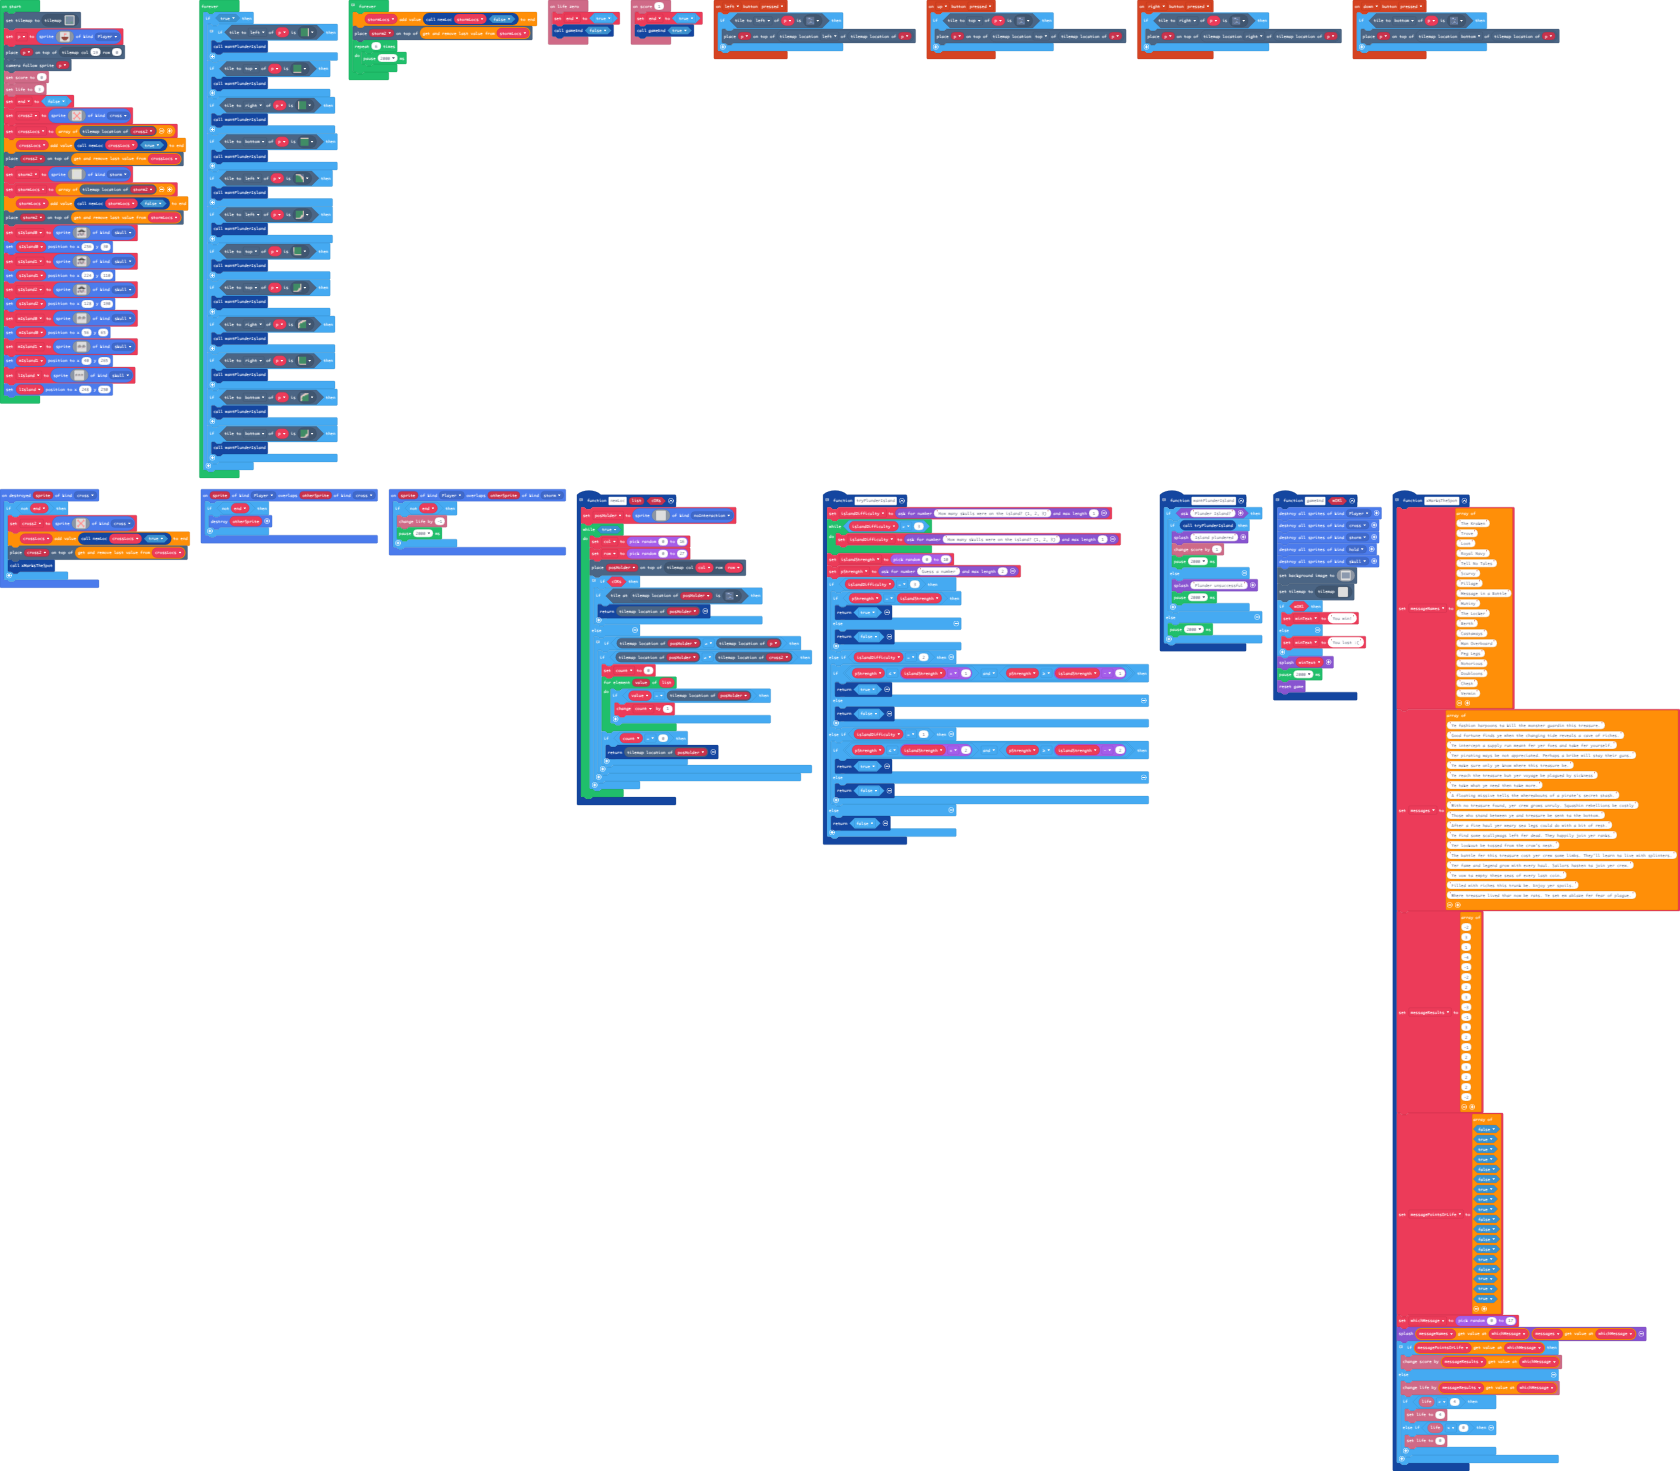
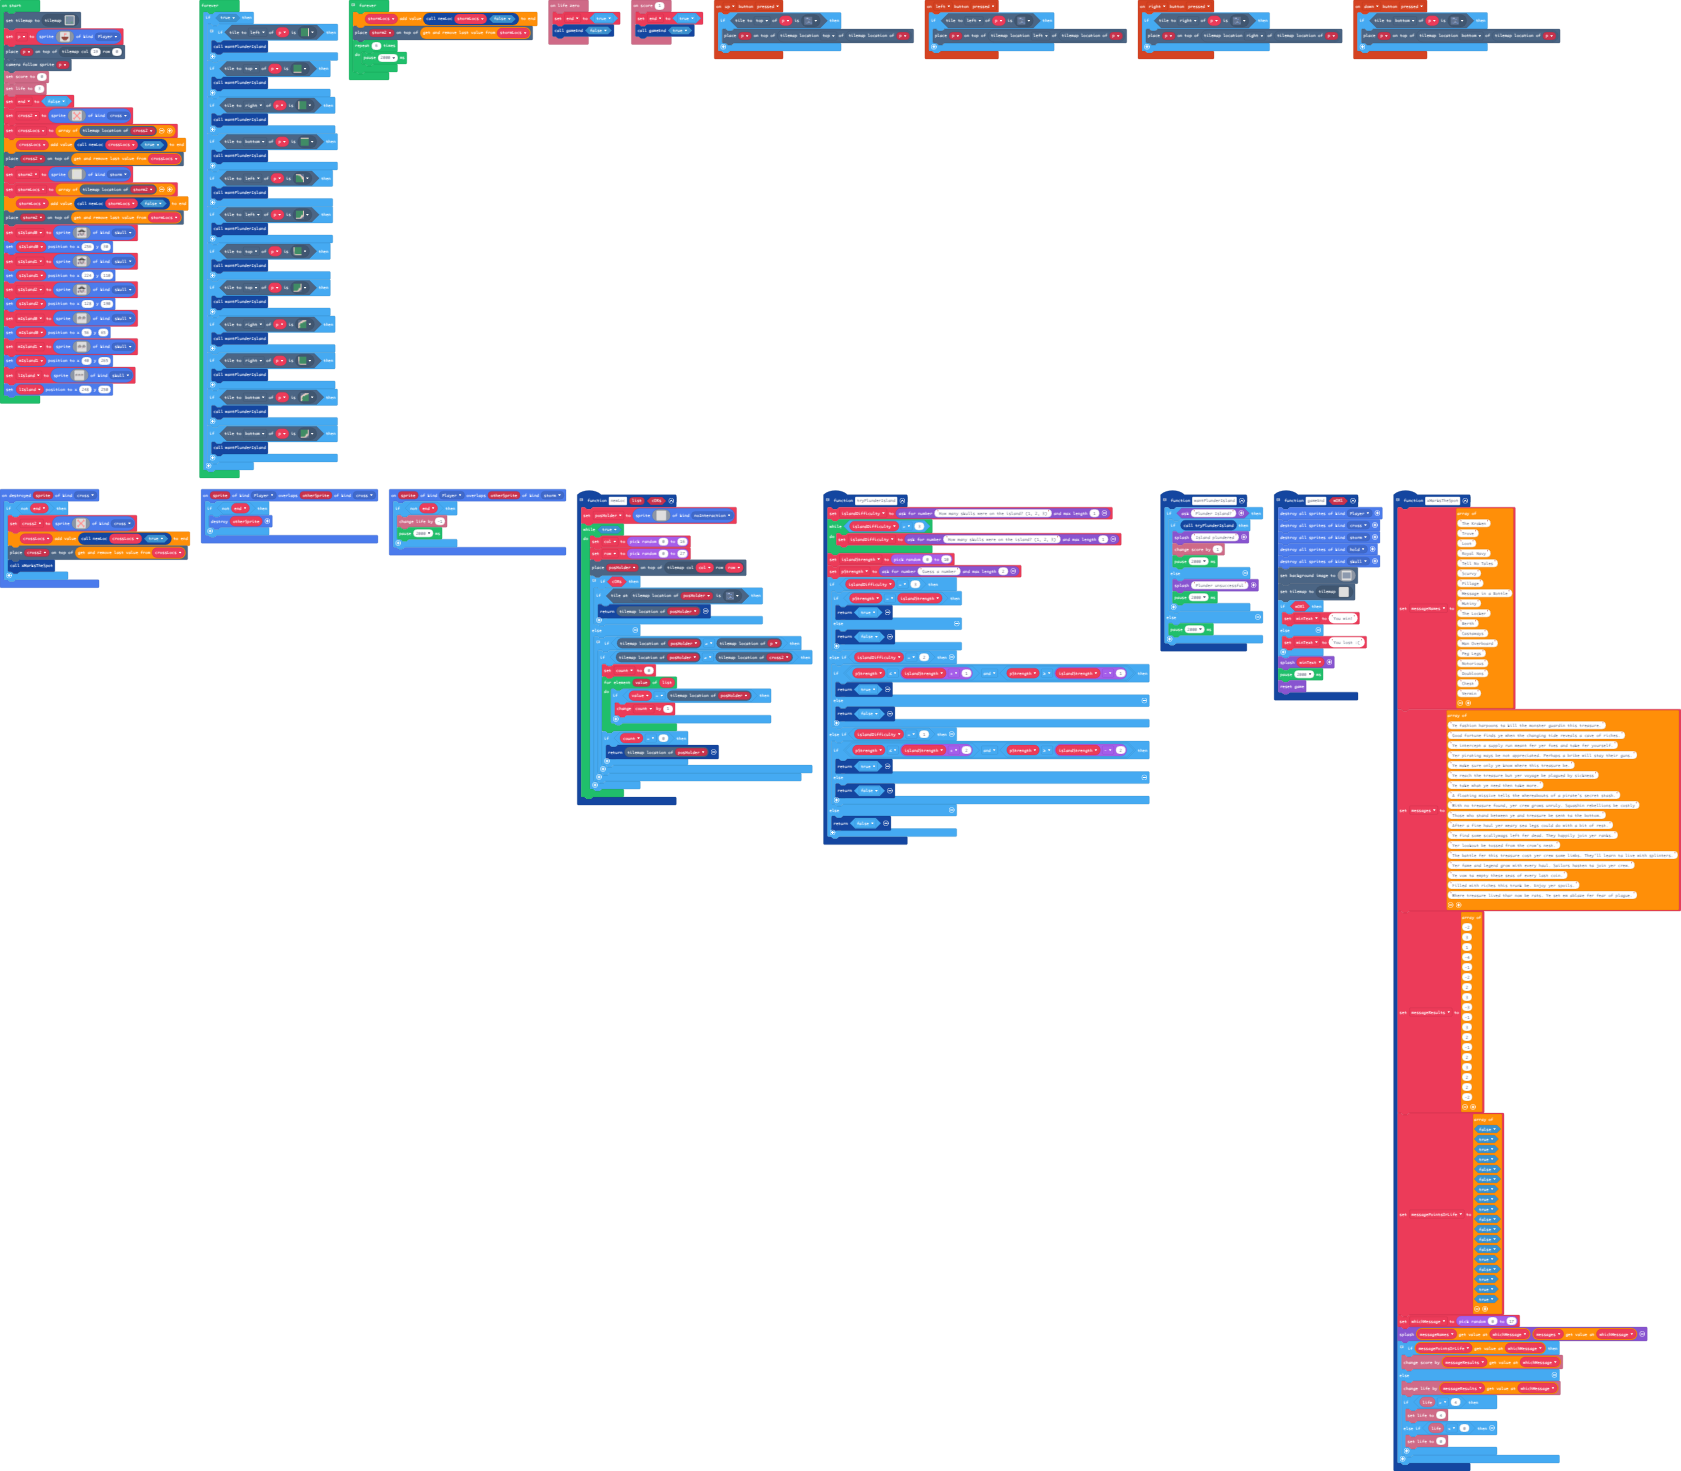
Update pxt.json, main.blocks, main.ts, tilemap.g.jres, tilemap.g.ts

diff --git a/main.ts b/main.ts
@@ -1,4 +1,3 @@
-// This game is based off the board game Plunder
 namespace SpriteKind {
     export const hold = SpriteKind.create()
     export const cross = SpriteKind.create()
@@ -9,7 +8,7 @@ namespace SpriteKind {
 // add bool to check if cross or storm
 // if cross can't be on land if storm can
 // if storm can't be on player if cross can
-function newLoc(list: tiles.Location[], cORs: boolean) {
+function newLoc (list: tiles.Location[], cORs: boolean) {
     posHolder = sprites.create(assets.image`posHolder`, SpriteKind.noInteraction)
     while (true) {
         col = randint(0, 16)
@@ -45,86 +44,86 @@ controller.up.onEvent(ControllerButtonEvent.Pressed, function () {
     }
 })
 // Choose message for X sprites, use bool to determine if add/subtract form points or life
-function xMarksTheSpot() {
+function xMarksTheSpot () {
     messageNames = [
-        "The Kraken",
-        "Trove",
-        "Loot",
-        "Royal Navy",
-        "Tell No Tales",
-        "Scurvy",
-        "Pillage",
-        "Message in a Bottle",
-        "Mutiny",
-        "The Locker",
-        "Berth",
-        "Castaways",
-        "Man Overboard",
-        "Peg Legs",
-        "Notorious",
-        "Doubloons",
-        "Chest",
-        "Vermin"
+    "The Kraken",
+    "Trove",
+    "Loot",
+    "Royal Navy",
+    "Tell No Tales",
+    "Scurvy",
+    "Pillage",
+    "Message in a Bottle",
+    "Mutiny",
+    "The Locker",
+    "Berth",
+    "Castaways",
+    "Man Overboard",
+    "Peg Legs",
+    "Notorious",
+    "Doubloons",
+    "Chest",
+    "Vermin"
     ]
     messages = [
-        "Ye fashion harpoons ta kill the monster guardin this treasure.",
-        "Good fortune finds ye when the changing tide reveals a cave of riches.",
-        "Ye intercept a supply run meant fer yer foes and take fer yourself.",
-        "Yer pirating ways be not appreciated. Perhaps a bribe will stay their guns.",
-        "Ye make sure only ye know where this treasure be.",
-        "Ye reach the treasure but yer voyage be plagued by sickness",
-        "Ye take what ye need then take more.",
-        "A floating missive tells the whereabouts of a pirate's secret stash.",
-        "With no treasure found, yer crew grows unruly. Squashin rebellions be costly",
-        "Those who stand between ye and treasure be sent ta the bottom.",
-        "After a fine haul yer weary sea legs could do with a bit of rest.",
-        "Ye find some scallywags left fer dead. They happily join yer ranks.",
-        "Yer lookout be tossed from the crow's nest.",
-        "The battle fer this treasure cost yer crew some limbs. They'll learn ta live with splinters.",
-        "Yer fame and legend grow with every haul. Sailors hasten ta join yer crew.",
-        "Ye vow ta empty these seas of every last coin.",
-        "Filled with riches this trunk be. Enjoy yer spoils.",
-        "Where treasure lived thar now be rats. Ye set em ablaze fer fear of plague."
+    "Ye fashion harpoons ta kill the monster guardin this treasure.",
+    "Good fortune finds ye when the changing tide reveals a cave of riches.",
+    "Ye intercept a supply run meant fer yer foes and take fer yourself.",
+    "Yer pirating ways be not appreciated. Perhaps a bribe will stay their guns.",
+    "Ye make sure only ye know where this treasure be.",
+    "Ye reach the treasure but yer voyage be plagued by sickness",
+    "Ye take what ye need then take more.",
+    "A floating missive tells the whereabouts of a pirate's secret stash.",
+    "With no treasure found, yer crew grows unruly. Squashin rebellions be costly",
+    "Those who stand between ye and treasure be sent ta the bottom.",
+    "After a fine haul yer weary sea legs could do with a bit of rest.",
+    "Ye find some scallywags left fer dead. They happily join yer ranks.",
+    "Yer lookout be tossed from the crow's nest.",
+    "The battle fer this treasure cost yer crew some limbs. They'll learn ta live with splinters.",
+    "Yer fame and legend grow with every haul. Sailors hasten ta join yer crew.",
+    "Ye vow ta empty these seas of every last coin.",
+    "Filled with riches this trunk be. Enjoy yer spoils.",
+    "Where treasure lived thar now be rats. Ye set em ablaze fer fear of plague."
     ]
     messageResults = [
-        -2,
-        3,
-        1,
-        -4,
-        -1,
-        -2,
-        2,
-        3,
-        -3,
-        -1,
-        3,
-        2,
-        -1,
-        2,
-        3,
-        2,
-        2,
-        -2
+    -2,
+    3,
+    1,
+    -4,
+    -1,
+    -2,
+    2,
+    3,
+    -3,
+    -1,
+    3,
+    2,
+    -1,
+    2,
+    3,
+    2,
+    2,
+    -2
     ]
     messagePointsOrLife = [
-        false,
-        true,
-        true,
-        true,
-        false,
-        false,
-        true,
-        true,
-        true,
-        false,
-        false,
-        false,
-        false,
-        true,
-        false,
-        true,
-        true,
-        true
+    false,
+    true,
+    true,
+    true,
+    false,
+    false,
+    true,
+    true,
+    true,
+    false,
+    false,
+    false,
+    false,
+    true,
+    false,
+    true,
+    true,
+    true
     ]
     whichMessage = randint(0, 17)
     game.splash(messageNames[whichMessage], messages[whichMessage])
@@ -155,7 +154,7 @@ controller.left.onEvent(ControllerButtonEvent.Pressed, function () {
     }
 })
 // at game end destroy all sprites and display win/loose to player
-function gameEnd(wORl: boolean) {
+function gameEnd (wORl: boolean) {
     sprites.destroyAllSpritesOfKind(SpriteKind.Player)
     sprites.destroyAllSpritesOfKind(SpriteKind.cross)
     sprites.destroyAllSpritesOfKind(SpriteKind.storm)
@@ -193,7 +192,7 @@ info.onLifeZero(function () {
 // ask user if want to plunder Island
 // if yes, call tryPlunderIsland fuction to determine is plunder was successful
 // if successful, player gains 1 pt
-function wantPlunderIsland() {
+function wantPlunderIsland () {
     if (game.ask("Plunder Island?")) {
         if (tryPlunderIsland()) {
             game.splash("Island plundered")
@@ -222,7 +221,7 @@ sprites.onOverlap(SpriteKind.Player, SpriteKind.cross, function (sprite, otherSp
 // medium: if guess number within 1 of random number
 // hard: if guess number is random number
 // if player guess within bounds give return true so player gains 1 pt
-function tryPlunderIsland() {
+function tryPlunderIsland () {
     islandDifficulty = game.askForNumber("How many skulls were on the island? (1, 2, 3)", 1)
     while (islandDifficulty > 3) {
         islandDifficulty = game.askForNumber("How many skulls were on the island? (1, 2, 3)", 1)

diff --git a/tilemap.g.ts b/tilemap.g.ts
@@ -183,6 +183,44 @@ namespace myTiles {
 . . . . . . . . . . . . . . . . 
 . . . . . . . . . . . . . . . . 
 `, [myTiles.transparency16], TileScale.Sixteen);
+            case "level7":
+            case "level7":return tiles.createTilemap(hex`1000100000000000000000000000000000000000000000000000000000000000000000000000000000000000000000000000000000000000000000000000000000000000000000000000000000000000000000000000000000000000000000000000000000000000000000000000000000000000000000000000000000000000000000000000000000000000000000000000000000000000000000000000000000000000000000000000000000000000000000000000000000000000000000000000000000000000000000000000000000000000000000000000000000000000000000000000000000000000000000000000000000000000000000000000000000000000`, img`
+. . . . . . . . . . . . . . . . 
+. . . . . . . . . . . . . . . . 
+. . . . . . . . . . . . . . . . 
+. . . . . . . . . . . . . . . . 
+. . . . . . . . . . . . . . . . 
+. . . . . . . . . . . . . . . . 
+. . . . . . . . . . . . . . . . 
+. . . . . . . . . . . . . . . . 
+. . . . . . . . . . . . . . . . 
+. . . . . . . . . . . . . . . . 
+. . . . . . . . . . . . . . . . 
+. . . . . . . . . . . . . . . . 
+. . . . . . . . . . . . . . . . 
+. . . . . . . . . . . . . . . . 
+. . . . . . . . . . . . . . . . 
+. . . . . . . . . . . . . . . . 
+`, [myTiles.transparency16], TileScale.Sixteen);
+            case "level8":
+            case "level8":return tiles.createTilemap(hex`1000100000000000000000000000000000000000000000000000000000000000000000000000000000000000000000000000000000000000000000000000000000000000000000000000000000000000000000000000000000000000000000000000000000000000000000000000000000000000000000000000000000000000000000000000000000000000000000000000000000000000000000000000000000000000000000000000000000000000000000000000000000000000000000000000000000000000000000000000000000000000000000000000000000000000000000000000000000000000000000000000000000000000000000000000000000000000`, img`
+. . . . . . . . . . . . . . . . 
+. . . . . . . . . . . . . . . . 
+. . . . . . . . . . . . . . . . 
+. . . . . . . . . . . . . . . . 
+. . . . . . . . . . . . . . . . 
+. . . . . . . . . . . . . . . . 
+. . . . . . . . . . . . . . . . 
+. . . . . . . . . . . . . . . . 
+. . . . . . . . . . . . . . . . 
+. . . . . . . . . . . . . . . . 
+. . . . . . . . . . . . . . . . 
+. . . . . . . . . . . . . . . . 
+. . . . . . . . . . . . . . . . 
+. . . . . . . . . . . . . . . . 
+. . . . . . . . . . . . . . . . 
+. . . . . . . . . . . . . . . . 
+`, [myTiles.transparency16], TileScale.Sixteen);
         }
         return null;
     })
